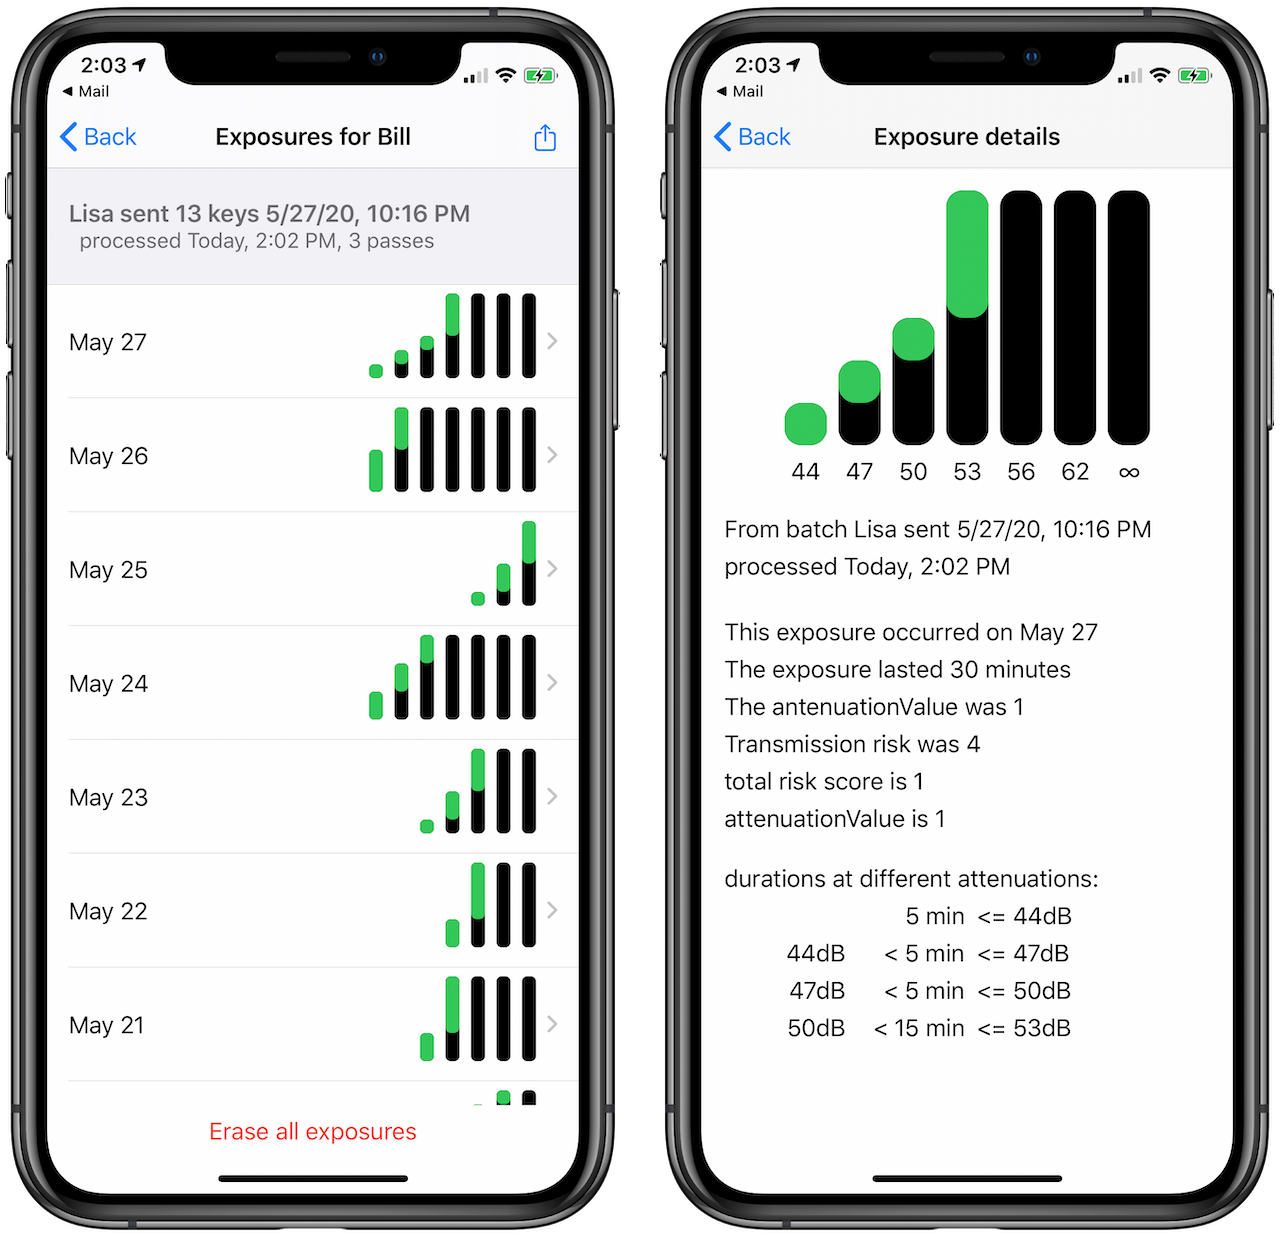
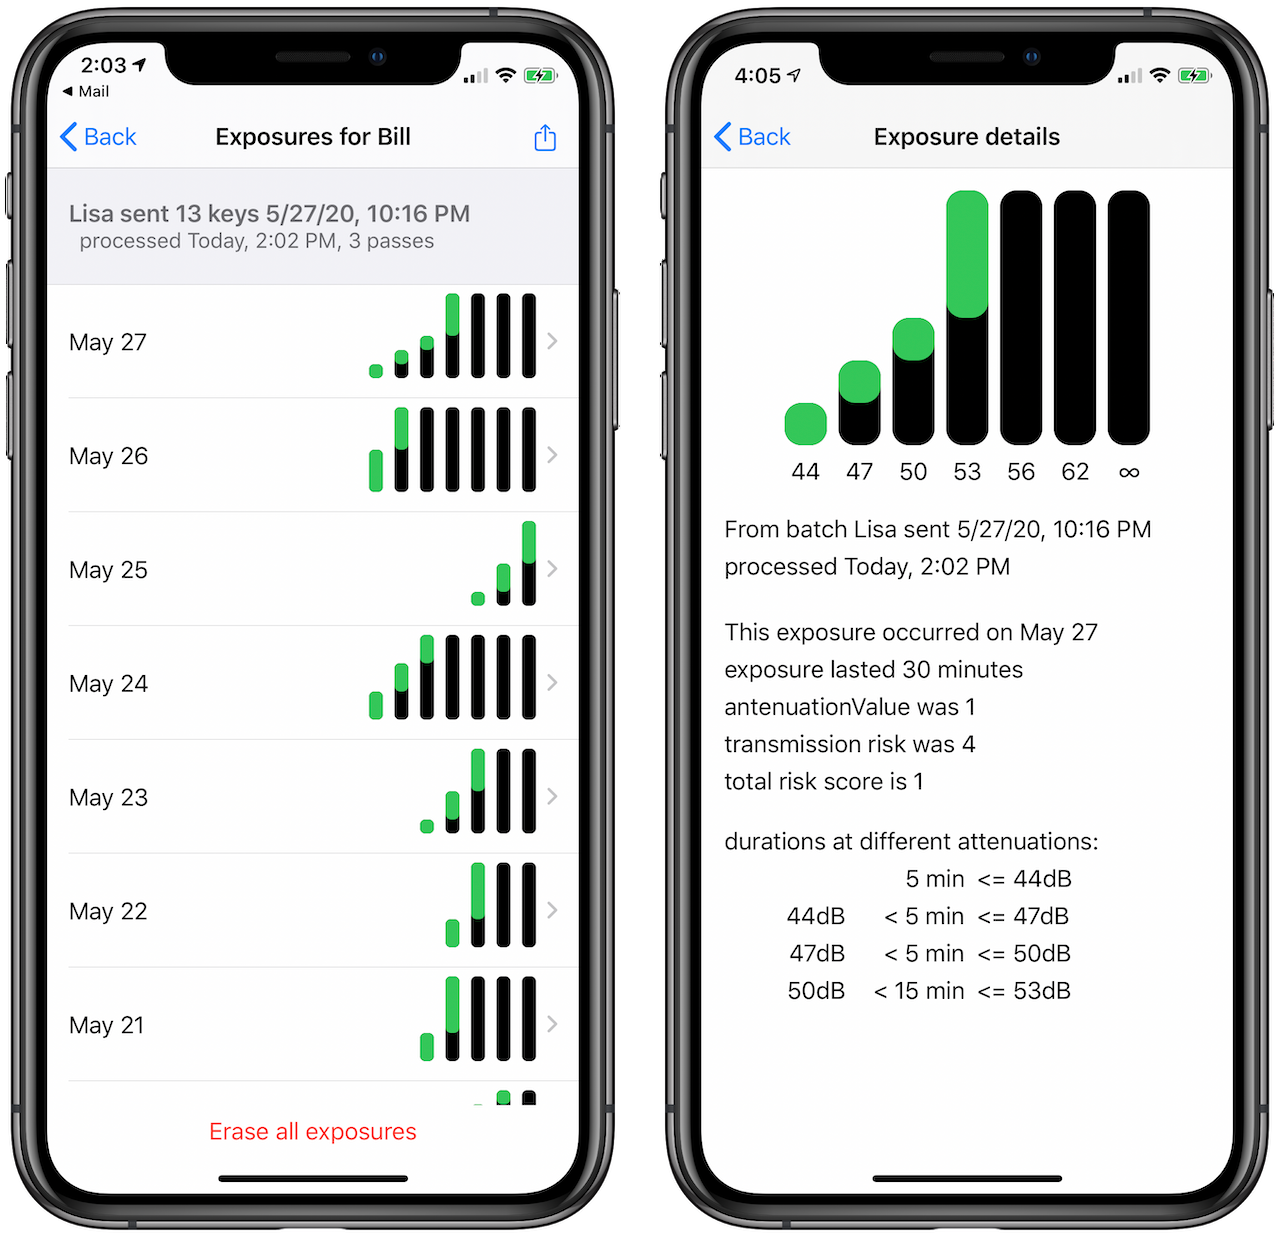
Fix typos In UI, mostly refer to encounters rather than exposures to avoid any possible confusion as to whether or not this app reports actual covid-19 exposures

diff --git a/GAEN_Explorer/Views/ExposuresView.swift b/GAEN_Explorer/Views/ExposuresView.swift
@@ -28,7 +28,7 @@ struct ExposureDurationViewLarge: View {
         VStack {
             ZStack(alignment: .bottom) {
                 RoundedRectangle(cornerRadius: cornerRadius * scale)
-                    .frame(width: 5 * scale, height: CGFloat(thresholdData.cumulativeDuration) * scale).foregroundColor(.black)
+                    .frame(width: 5 * scale, height: CGFloat(thresholdData.cumulativeDuration) * scale).foregroundColor(.primary)
                 RoundedRectangle(cornerRadius: cornerRadius * scale)
                     .frame(width: 5 * scale, height: CGFloat(thresholdData.thisDuration) * scale)
                     .offset(x: 0, y: CGFloat(-thresholdData.prevDuration) * scale).foregroundColor(.green)
@@ -56,7 +56,7 @@ struct ExposureDurationViewSmall: View {
     var body: some View {
         ZStack(alignment: .bottom) {
             RoundedRectangle(cornerRadius: cornerRadius * scale)
-                .frame(width: 5 * scale, height: CGFloat(thresholdData.cumulativeDuration) * scale).foregroundColor(.black)
+                .frame(width: 5 * scale, height: CGFloat(thresholdData.cumulativeDuration) * scale).foregroundColor(.primary)
             RoundedRectangle(cornerRadius: cornerRadius * scale)
                 .frame(width: 5 * scale, height: CGFloat(thresholdData.thisDuration) * scale)
                 .offset(x: 0, y: CGFloat(-thresholdData.prevDuration) * scale).foregroundColor(.green)
@@ -79,6 +79,7 @@ struct ExposureDurationsViewSmall: View {
 struct ExposureDetailView: View {
     var batch: BatchExposureInfo
     var info: CodableExposureInfo
+    @EnvironmentObject var localStore: LocalStore
     var body: some View { VStack {
         ExposureDurationsViewLarge(thresholdData: self.info.thresholdData).padding(.top)
         ScrollView {
@@ -89,9 +90,9 @@ struct ExposureDetailView: View {
                     Text("")
                     Text("This exposure occurred on \(self.info.date, formatter: ExposureFramework.shared.dayFormatter)")
                     Group {
-                        Text("The exposure lasted \(self.info.duration) minutes")
-                        Text("The antenuationValue was \(self.info.attenuationValue) ")
-                        Text("Transmission risk was \(self.info.transmissionRiskLevel)")
+                        Text("exposure lasted \(self.info.duration) minutes")
+                        Text("attenuationValue was \(self.info.attenuationValue) ")
+                        Text("transmission risk was \(self.info.transmissionRiskLevel)")
                         Text("total risk score is \(self.info.totalRiskScore)").padding(.bottom)
                         Text("durations at different attenuations:")
                     }
@@ -104,7 +105,7 @@ struct ExposureDetailView: View {
             }
 
         }.padding(.horizontal)
-    }.navigationBarTitle("Exposure details", displayMode: .inline)
+    }.navigationBarTitle("Details \(localStore.userName) encounter with \(batch.userName)", displayMode: .inline)
     }
 }
 
@@ -168,7 +169,7 @@ struct ExposuresView: View {
                        content: {
                            ActivityView(activityItems: [
                                JsonItem(url: self.localStore.shareExposuresURL!,
-                                        title: "Exposures for \(self.localStore.userName) from GAEN Explorer"),
+                                        title: "Encounters for \(self.localStore.userName) from GAEN Explorer"),
                            ] as [Any], applicationActivities: nil, isPresented: self.$showingSheet)
                     })
 
@@ -191,8 +192,8 @@ struct ExposuresView: View {
             }
             .navigationBarTitle(self.localStore.allExposures.count == 0 ?
 
-                "No Exposures for \(localStore.userName)" :
-                "Exposures for \(localStore.userName)", displayMode: .inline)
+                "No encounters for \(localStore.userName)" :
+                "Encounters for \(localStore.userName)", displayMode: .inline)
             .navigationBarItems(trailing:
 
                 /// Export BUTTON

diff --git a/GAEN_Explorer/Functionality/ExposureFramework.swift b/GAEN_Explorer/Functionality/ExposureFramework.swift
@@ -373,7 +373,7 @@ class ExposureFramework: ObservableObject {
 
                     exposures!.forEach { exposure in
                         let day = ExposureFramework.shared.fullDateFormatter.string(from: exposure.date)
-                        print("Exposure \(Int(exposure.duration / 60))on \(day)")
+                        print("Encounter \(Int(exposure.duration / 60))on \(day)")
                         print("was \(ExposureFramework.shared.dayFormatter.string(from: exposure.date))")
                         print("Raw date \(exposure.date.timeIntervalSince1970)")
                         print("attn \(exposure.attenuationValue) ")

diff --git a/GAEN_Explorer/Functionality/Utilities.swift b/GAEN_Explorer/Functionality/Utilities.swift
@@ -33,7 +33,7 @@ class JsonItem: NSObject, UIActivityItemSource {
     }
 
     func activityViewControllerPlaceholderItem(_: UIActivityViewController) -> Any {
-        "Exposure data as json files"
+        "Encounter data as json files"
     }
 
     func activityViewController(_: UIActivityViewController, itemForActivityType _: UIActivity.ActivityType?) -> Any? {

diff --git a/GAEN_Explorer/Model/ExposureAnalysis.swift b/GAEN_Explorer/Model/ExposureAnalysis.swift
@@ -52,7 +52,7 @@ class ExposureAnalysis {
     }
 
     func printMe() {
-        print("Exposure analysis for user \(name)")
+        print("Encounter analysis for user \(name)")
 
         for (key, durations) in exposureDurations {
             print(" \(key) \(asString(durations))")

diff --git a/CHANGES.md b/CHANGES.md
@@ -2,6 +2,6 @@
 
 Saturday, May 23: First public commit
 
-Friday, May 29th: Adding features to compute antennuation historgram, removing features for exploring ExposureConfig
+Friday, May 29th: Adding features to compute attenuation historgram, removing features for exploring ExposureConfig
 
 
